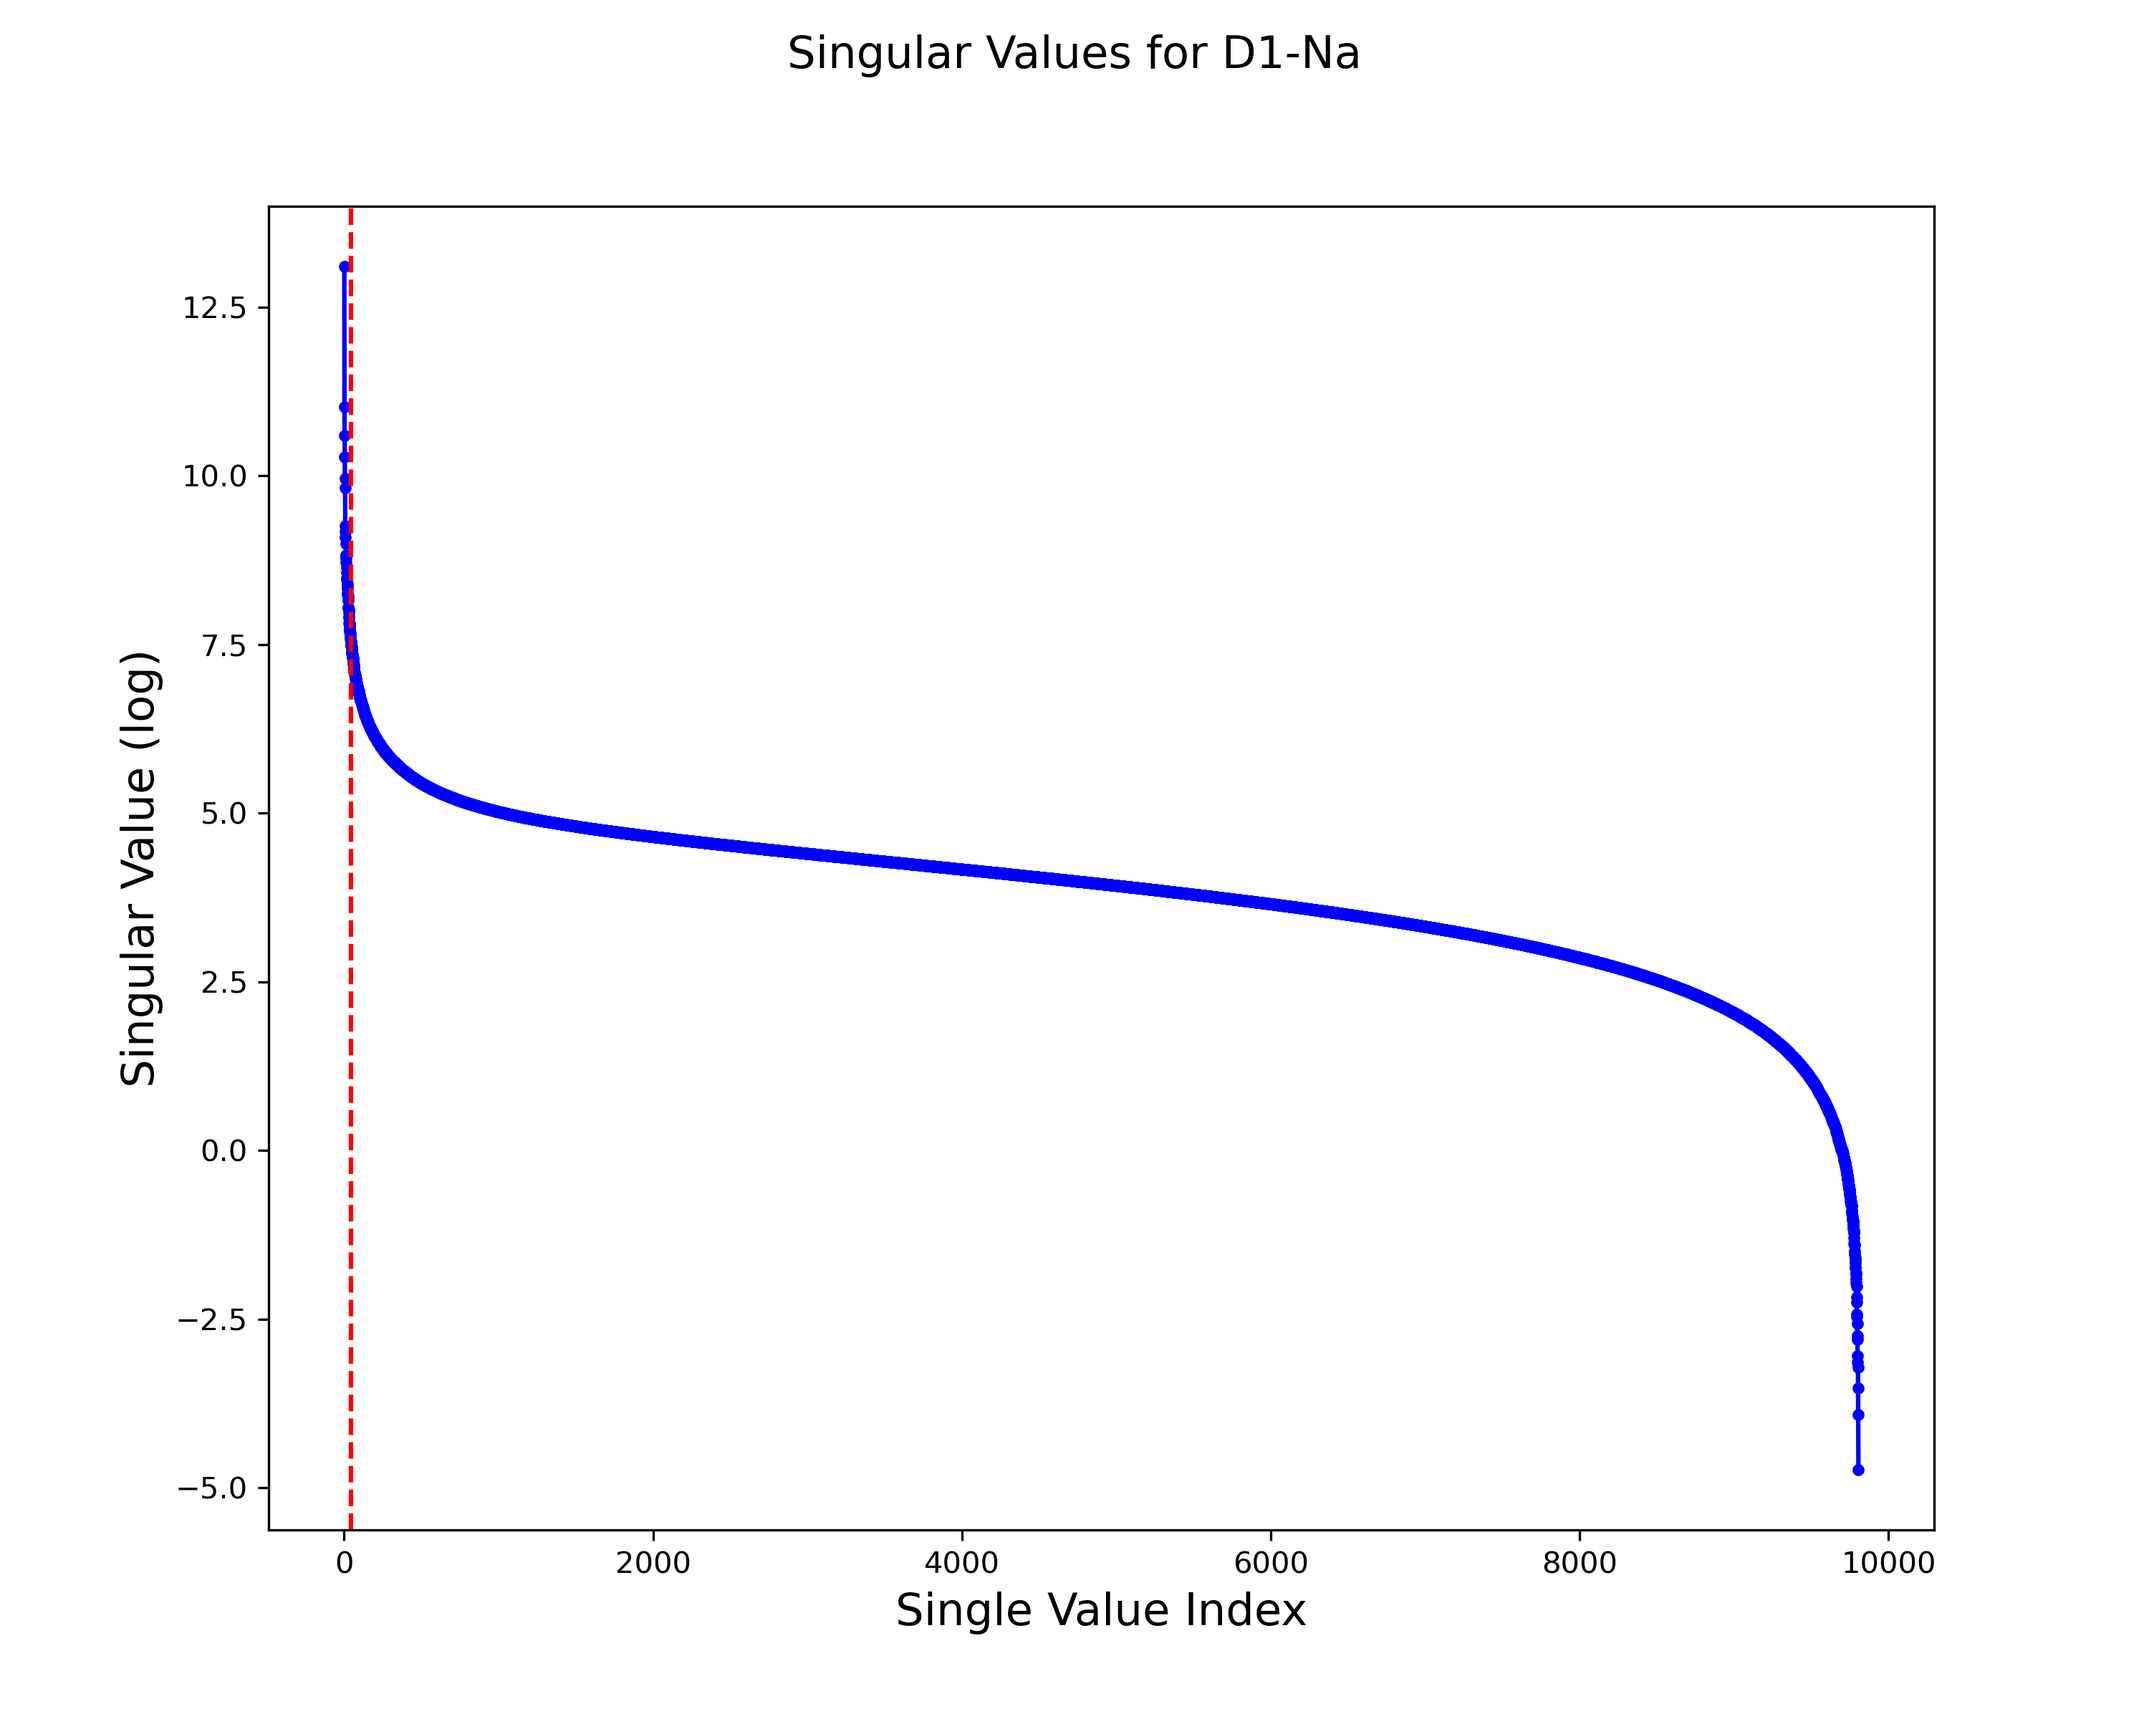
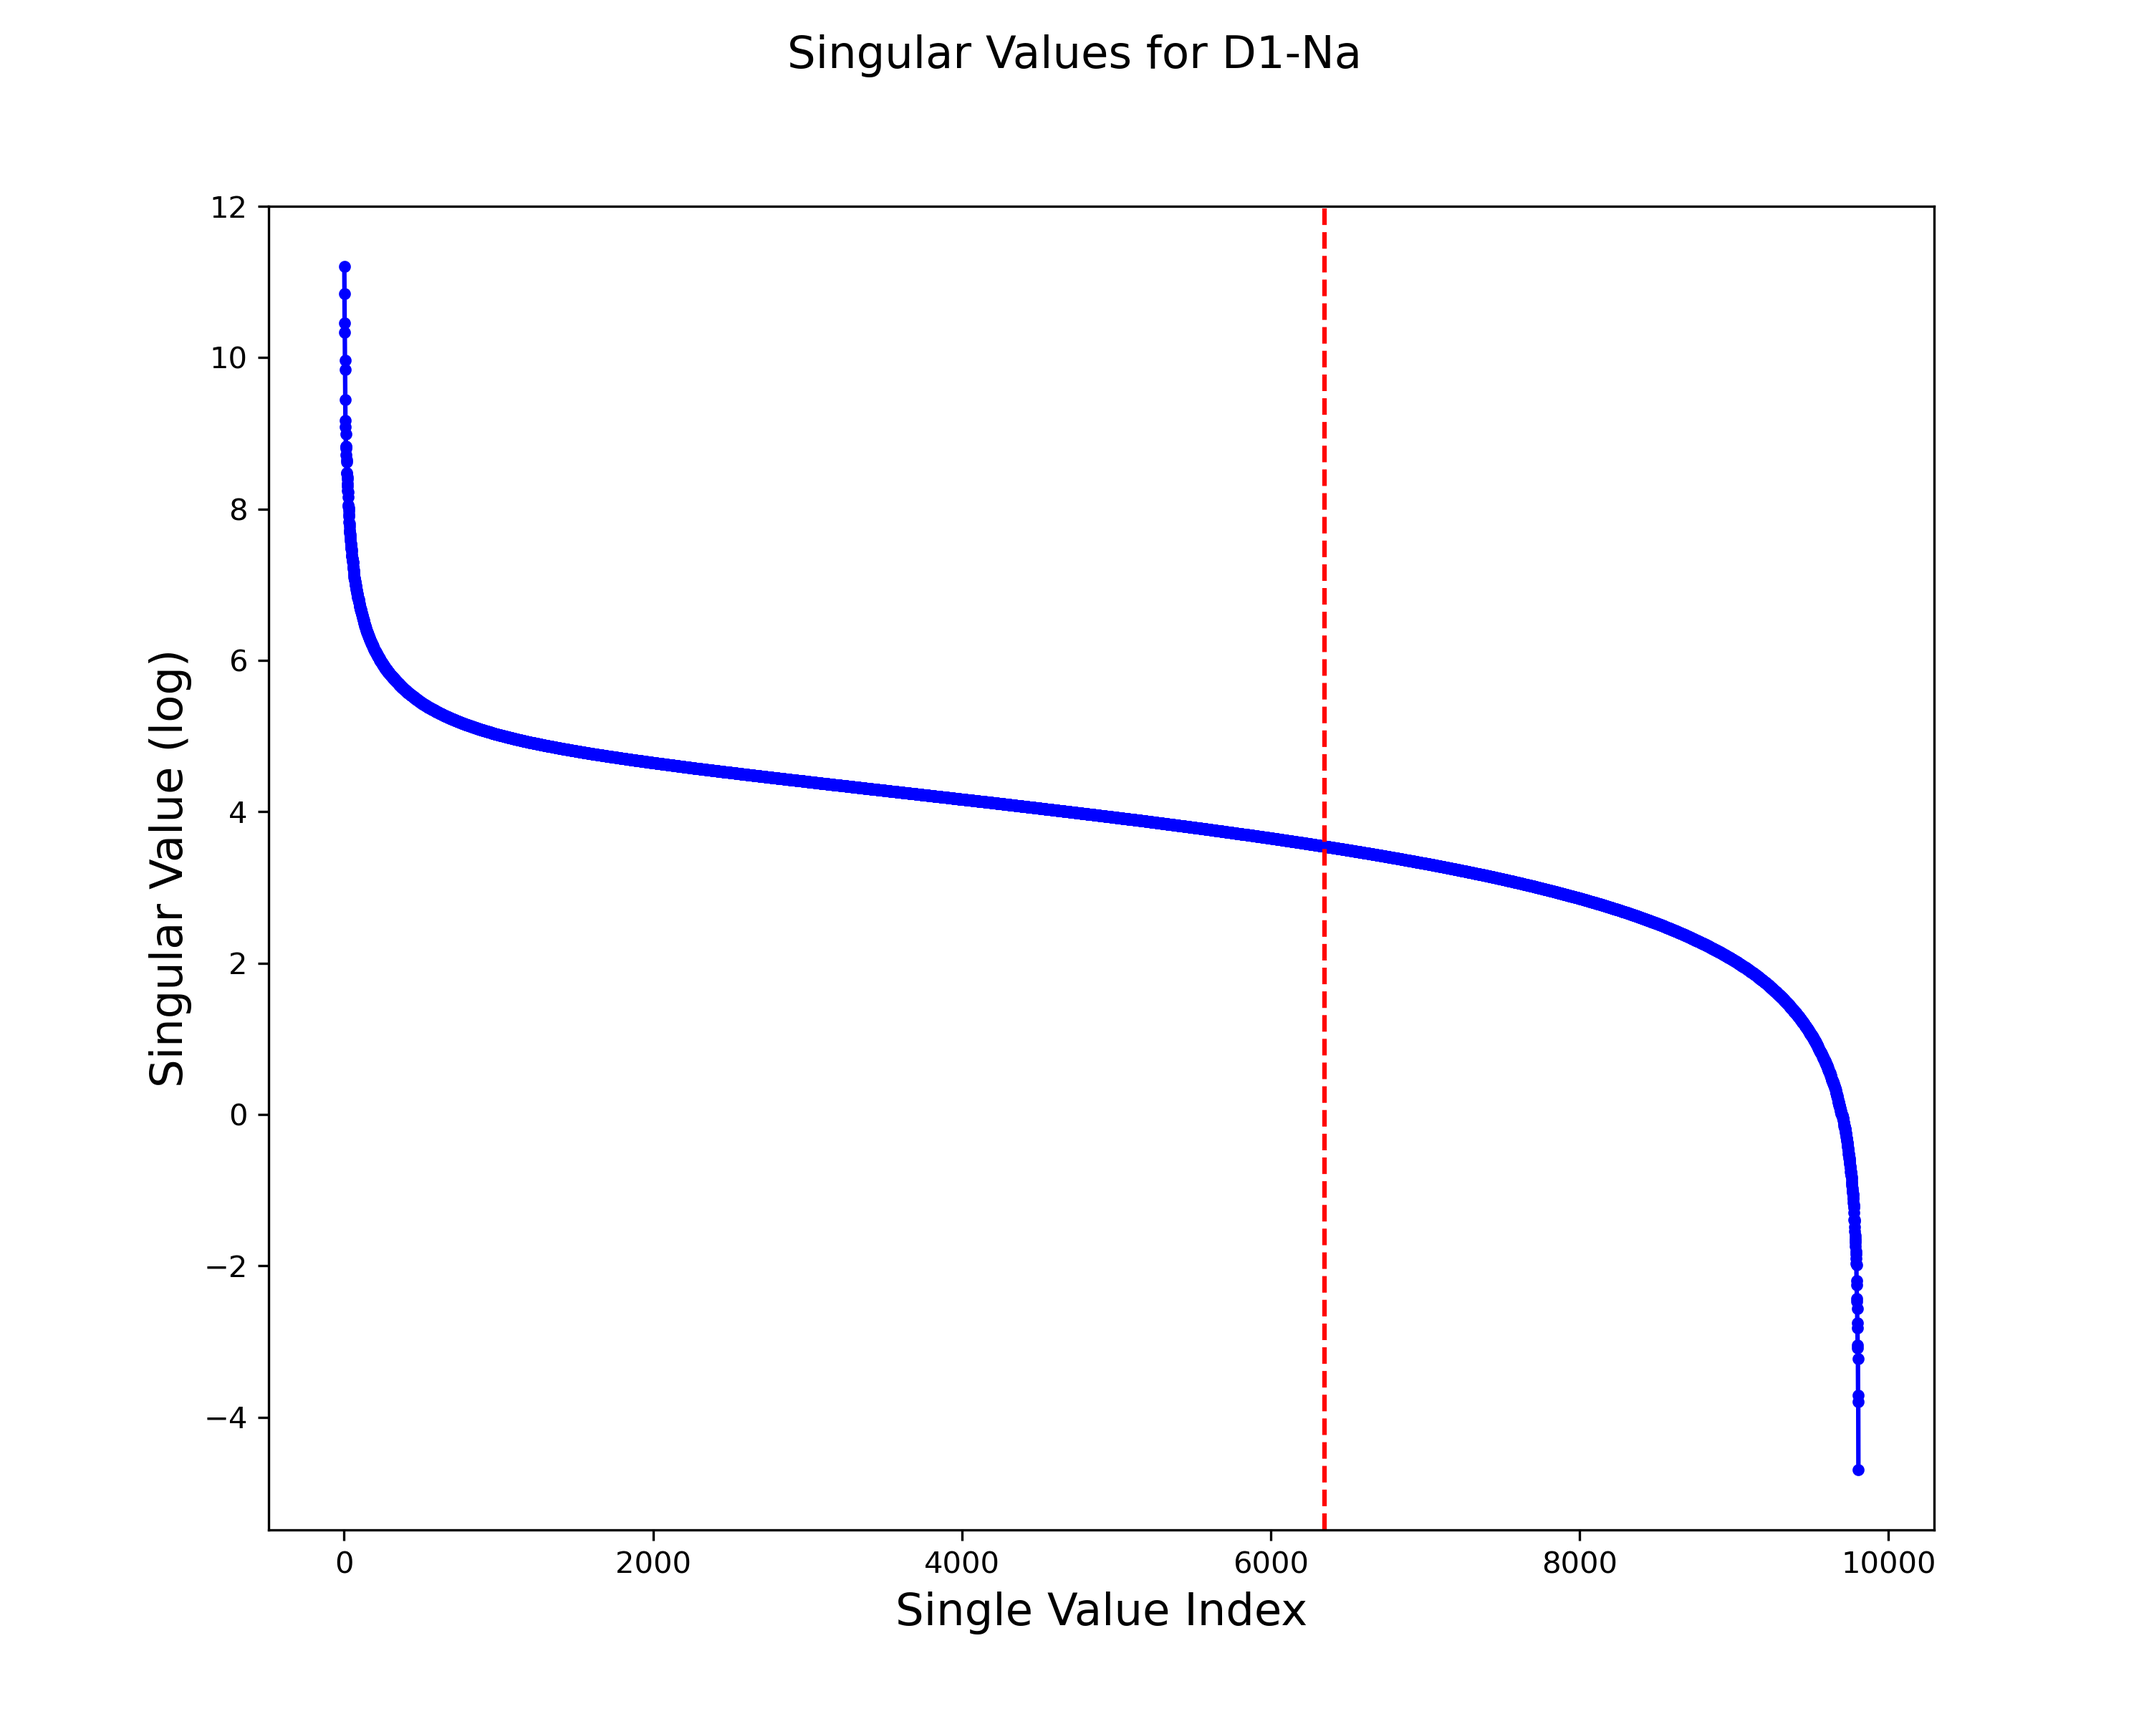
update before moving local

diff --git a/spectral_umap/__main__.py b/spectral_umap/__main__.py
@@ -5,6 +5,7 @@ Author:
 Description:
     main executable entry point for umap clustering on seqeunce distances
 """
+
 import os
 import sys
 from types import prepare_class
@@ -15,29 +16,31 @@ from datetime import datetime
 import scipy
 import scipy.sparse
 import scipy.linalg
+from sklearn.cluster import SpectralClustering
 
 # plotting utilities
 import matplotlib
 import matplotlib.pyplot as plt
 import seaborn as sns
 
-# local imports
-sys.path.insert(0, '/home/cstansbu/project_packages')
-
-import umap 
-import kneed 
-
-# plot config
+# plotting config
+plt.switch_backend('agg')
 matplotlib.rcParams['figure.dpi'] = 300
 plt.style.use('seaborn-deep')
+from matplotlib import rcParams
+
+# local imports
+sys.path.insert(0, '/home/cstansbu/project_packages')
+import umap 
 
 # global variables 
 INPUT_DIRECTORY = f'/scratch/indikar_root/indikar1/shared_data/cstansbu_rotation/b_cell_data/outputs'
-OUTPUT_DIRECTORY = '/scratch/indikar_root/indikar1/shared_data/cstansbu_rotation/b_cell_data/outputs'
+OUTPUT_DIRECTORY = f'/scratch/indikar_root/indikar1/shared_data/cstansbu_rotation/b_cell_data/outputs'
 
 """
 FUNCTIONS
 """
+
 def normlize_rows(eigenvectors):
     """A fucntion to normalize eigenvectors
     row-wise across n eigenvectors
@@ -52,25 +55,6 @@ def normlize_rows(eigenvectors):
     for idx, row in enumerate(eigenvectors):
         T[idx] = abs(row / np.linalg.norm(row, ord=1))
     return T
-
-
-def get_knee(eigenvalues, S=2):
-    """Return the elbow of an order array of eigenvalues
-    
-    Args:
-        - eigenvalues (np.array)
-        - S (int): sensitivity
-        
-    Returns:
-        - knee_index (int): index at which 
-            the second derivititive changes 
-            most drastically + 1
-    """
-    ind = np.arange(len(eigenvalues)) + 1
-    knee = kneed.KneeLocator(ind, eigenvalues, S=S, 
-                          curve='convex', 
-                          direction='decreasing')
-    return knee.knee + 1
 
 
 def build_fig(title="", axis_off=False, size=(10, 8), 
@@ -161,24 +145,32 @@ if __name__ == '__main__':
         # fill diagonal 
         np.fill_diagonal(A, 1)
 
+        # normalize the matrix 
+        A = A - A.mean()
+
         # compute SVD of the adjacency matrix 
         l_evecs, evals, _ = np.linalg.svd(A)
 
-        # compute K
-        K = get_knee(evals)
-        print(f"Estimated K: {K}")
+        # compute r 
+        coeff = np.sqrt(4) / 3
+        r = coeff * np.median(evals)
+
+        s_ind = np.argwhere(evals >= r)
+        k = np.max(s_ind)
+
+        print(f"estimated hard threshold: {r} occurs at index {k}")
 
         # save the knee plot:
         outpath = f"/home/cstansbu/rotation_project/figures/{NAME}_knee.png"
-        plot_knee(evals, K, NAME, outpath)
+        plot_knee(evals, k, NAME, outpath)
 
-        # normalize the first K eigenvectors 
-        v = normlize_rows(l_evecs[:,0:K])
+        # compute v
+        P = l_evecs[:,0:k]
+        clustering = SpectralClustering(n_clusters=k, random_state=1729).fit(P)
 
         # perform UMAP
         reducer = umap.UMAP()
-        embedding = reducer.fit_transform(v)
-
+        embedding = reducer.fit_transform(P)
         print(embedding.shape)
 
         # save embeddings
@@ -187,6 +179,36 @@ if __name__ == '__main__':
         print(f"Done saving: {output_file_path}")
         print()
 
+        # plot clusters 
+        fig = build_fig(y_lab="UMAP-2", 
+                        x_lab="UMAP-1", 
+                        title=f'Sample from {NAME} Clusters')
+
+        sns.scatterplot(x=embedding[:, 0], 
+                        y=embedding[:, 1], 
+                        hue=clustering.labels_,
+                        alpha=0.5)
+
+        outpath = f"/home/cstansbu/rotation_project/figures/{NAME}_UMAP_by_Cluster_Label.png"
+        plt.savefig(outpath, bbox_inches = 'tight')
+
+        # load the metadata for the file 
+        feat_path = f"{INPUT_DIRECTORY}/{NAME}_features.csv"
+        df = pd.read_csv(feat_path)
+
+        # plot the clusters by vfamily name
+        # plot clusters 
+        fig = build_fig(y_lab="UMAP-2", 
+                        x_lab="UMAP-1", 
+                        title=f'Sample from {NAME}, by Family Name')
+
+        sns.scatterplot(x=embedding[:, 0], 
+                        y=embedding[:, 1], 
+                        hue=df['vFamilyName'],
+                        alpha=0.5)
+
+        outpath = f"/home/cstansbu/rotation_project/figures/{NAME}_UMAP_by_Family_Name.png"
+        plt.savefig(outpath, bbox_inches = 'tight')
 
 
 

diff --git a/notebooks/plot_embeddings.py b/notebooks/plot_embeddings.py
@@ -46,4 +46,6 @@ for dataset in ['D1-Na', 'D1-Nb', 'D1-M',
     outpath = f"../figures/{dataset}_UMAP_by_Family.png"
     plt.savefig(outpath, bbox_inches = 'tight')
 
+    
+
 # %%
